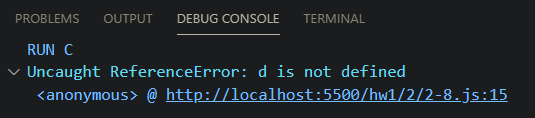
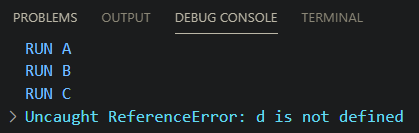
modify ex 2-8

diff --git a/hw1/2/2-8.js b/hw1/2/2-8.js
@@ -1,10 +1,10 @@
 function a() {
-  /* ... */
+  console.log("RUN A");
 } // 함수 선언문. 함수명 a가 곧 변수명.
 a(); // 실행 OK.
 
 var b = function() {
-  /* ... */
+  console.log("RUN B");
 }; // (익명) 함수 표현식. 변수명 b가 곧 함수명.
 b(); // 실행 OK.
 
